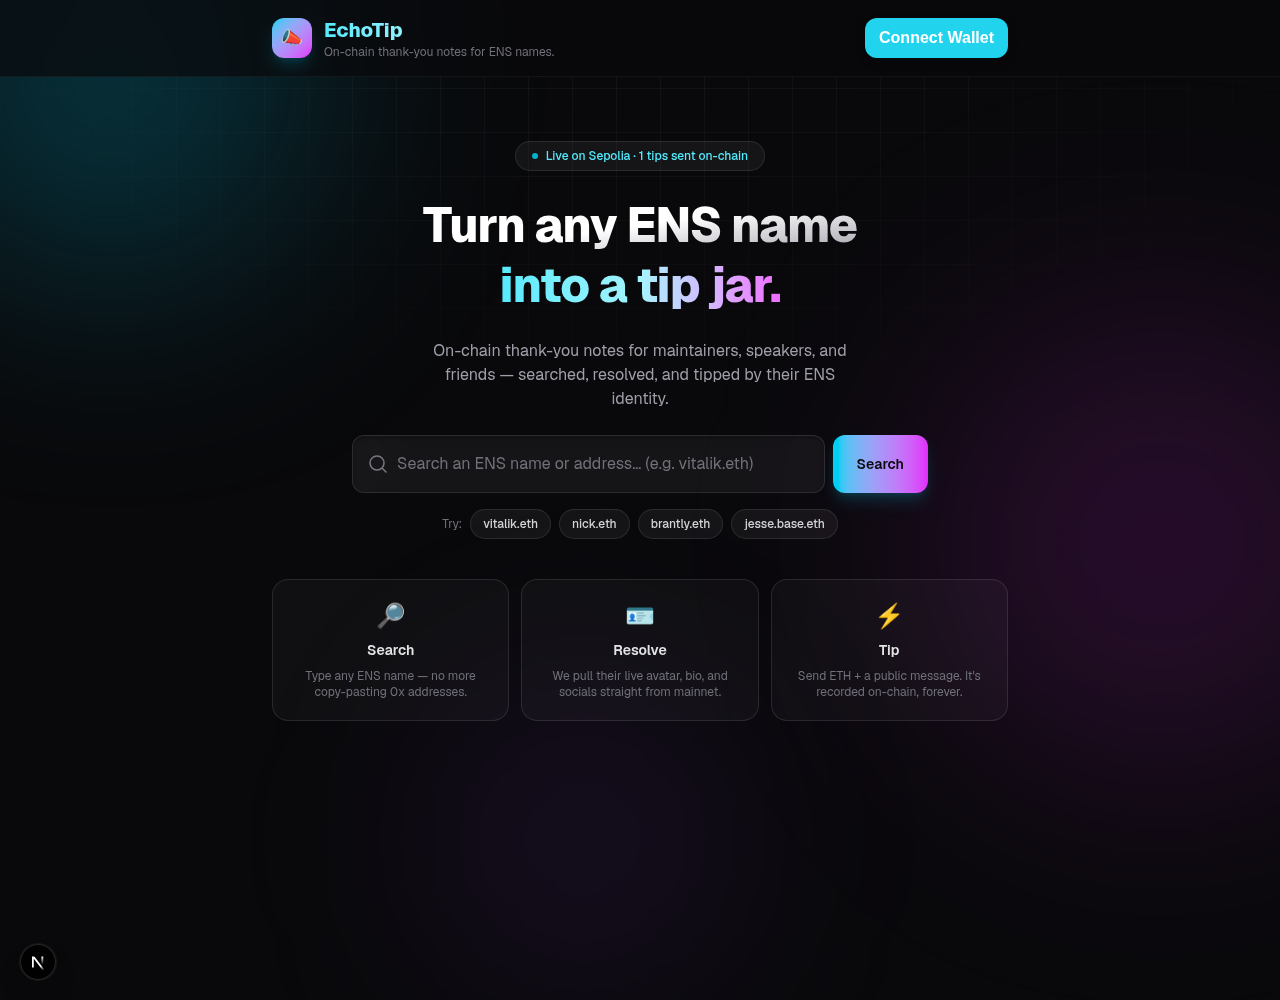
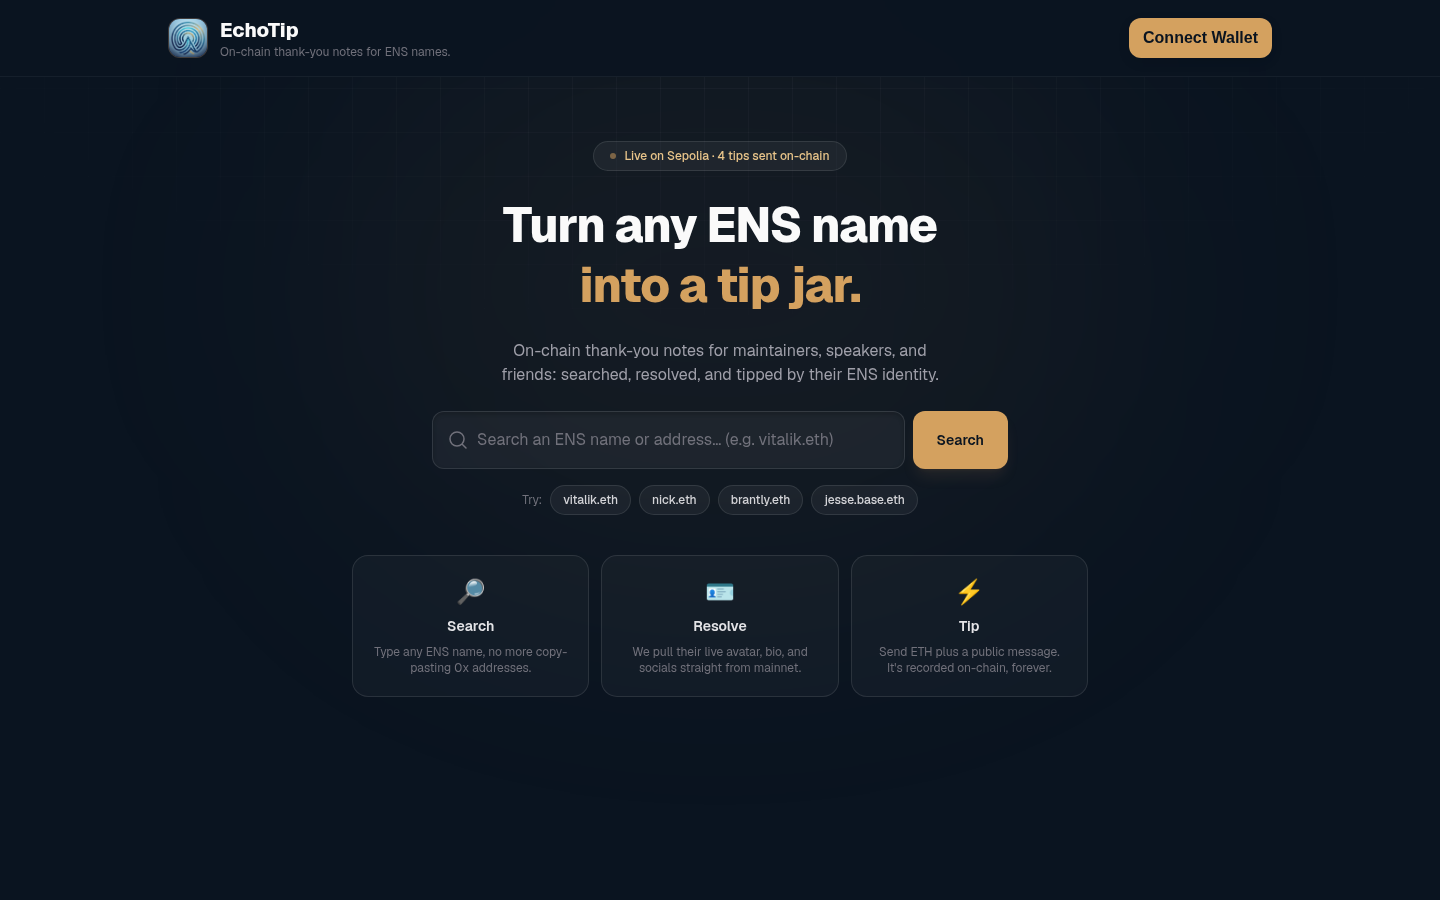
Update README screenshots, log contract read errors to console
Screenshots now show the current navy/gold theme with real on-chain
data instead of the pre-redesign look. MessageWall logs the full
getTips error to console.error so a misconfigured contract address
(like the duplicated NEXT_PUBLIC_CONTRACT_ADDRESS on Vercel) is
diagnosable from devtools instead of just showing the generic
fallback message.

diff --git a/app/components/MessageWall.tsx b/app/components/MessageWall.tsx
@@ -39,6 +39,11 @@ export function MessageWall({
   });
   const tips = data as readonly Tip[] | undefined;
 
+  if (error) {
+    // eslint-disable-next-line no-console
+    console.error("getTips error:", error);
+  }
+
   useEffect(() => {
     if (refreshKey > 0) refetch();
   }, [refreshKey, refetch]);
